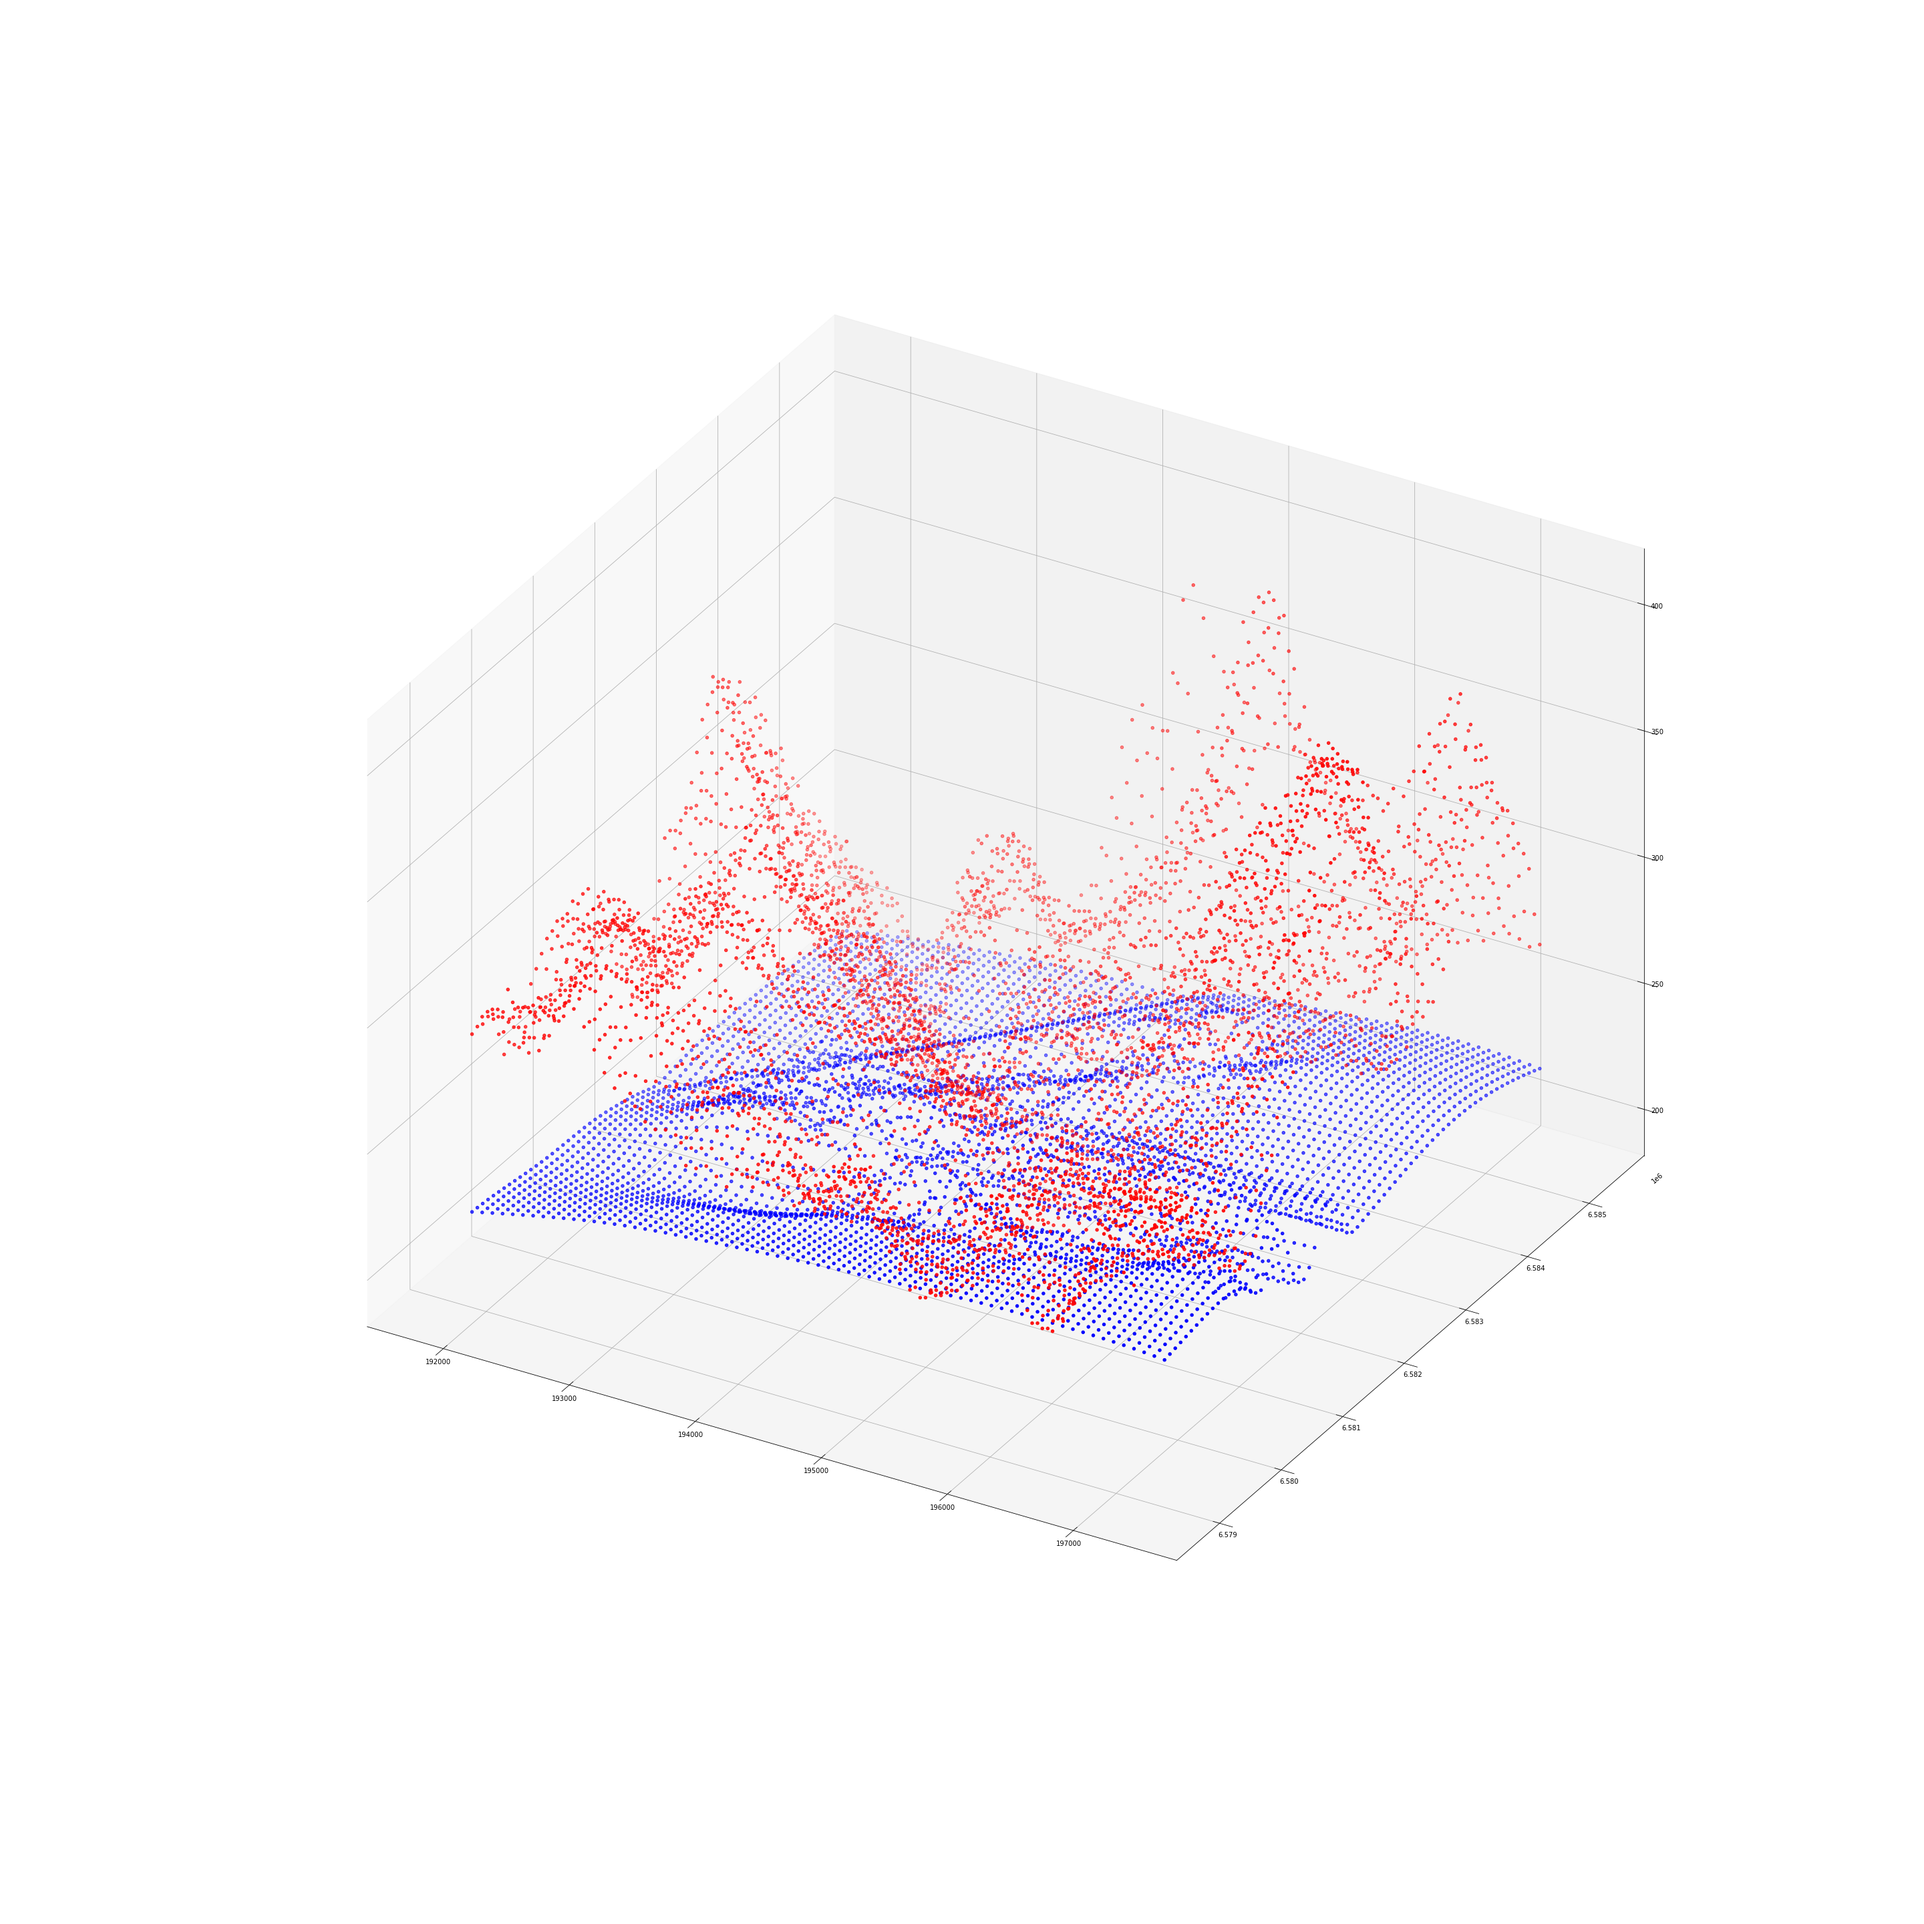
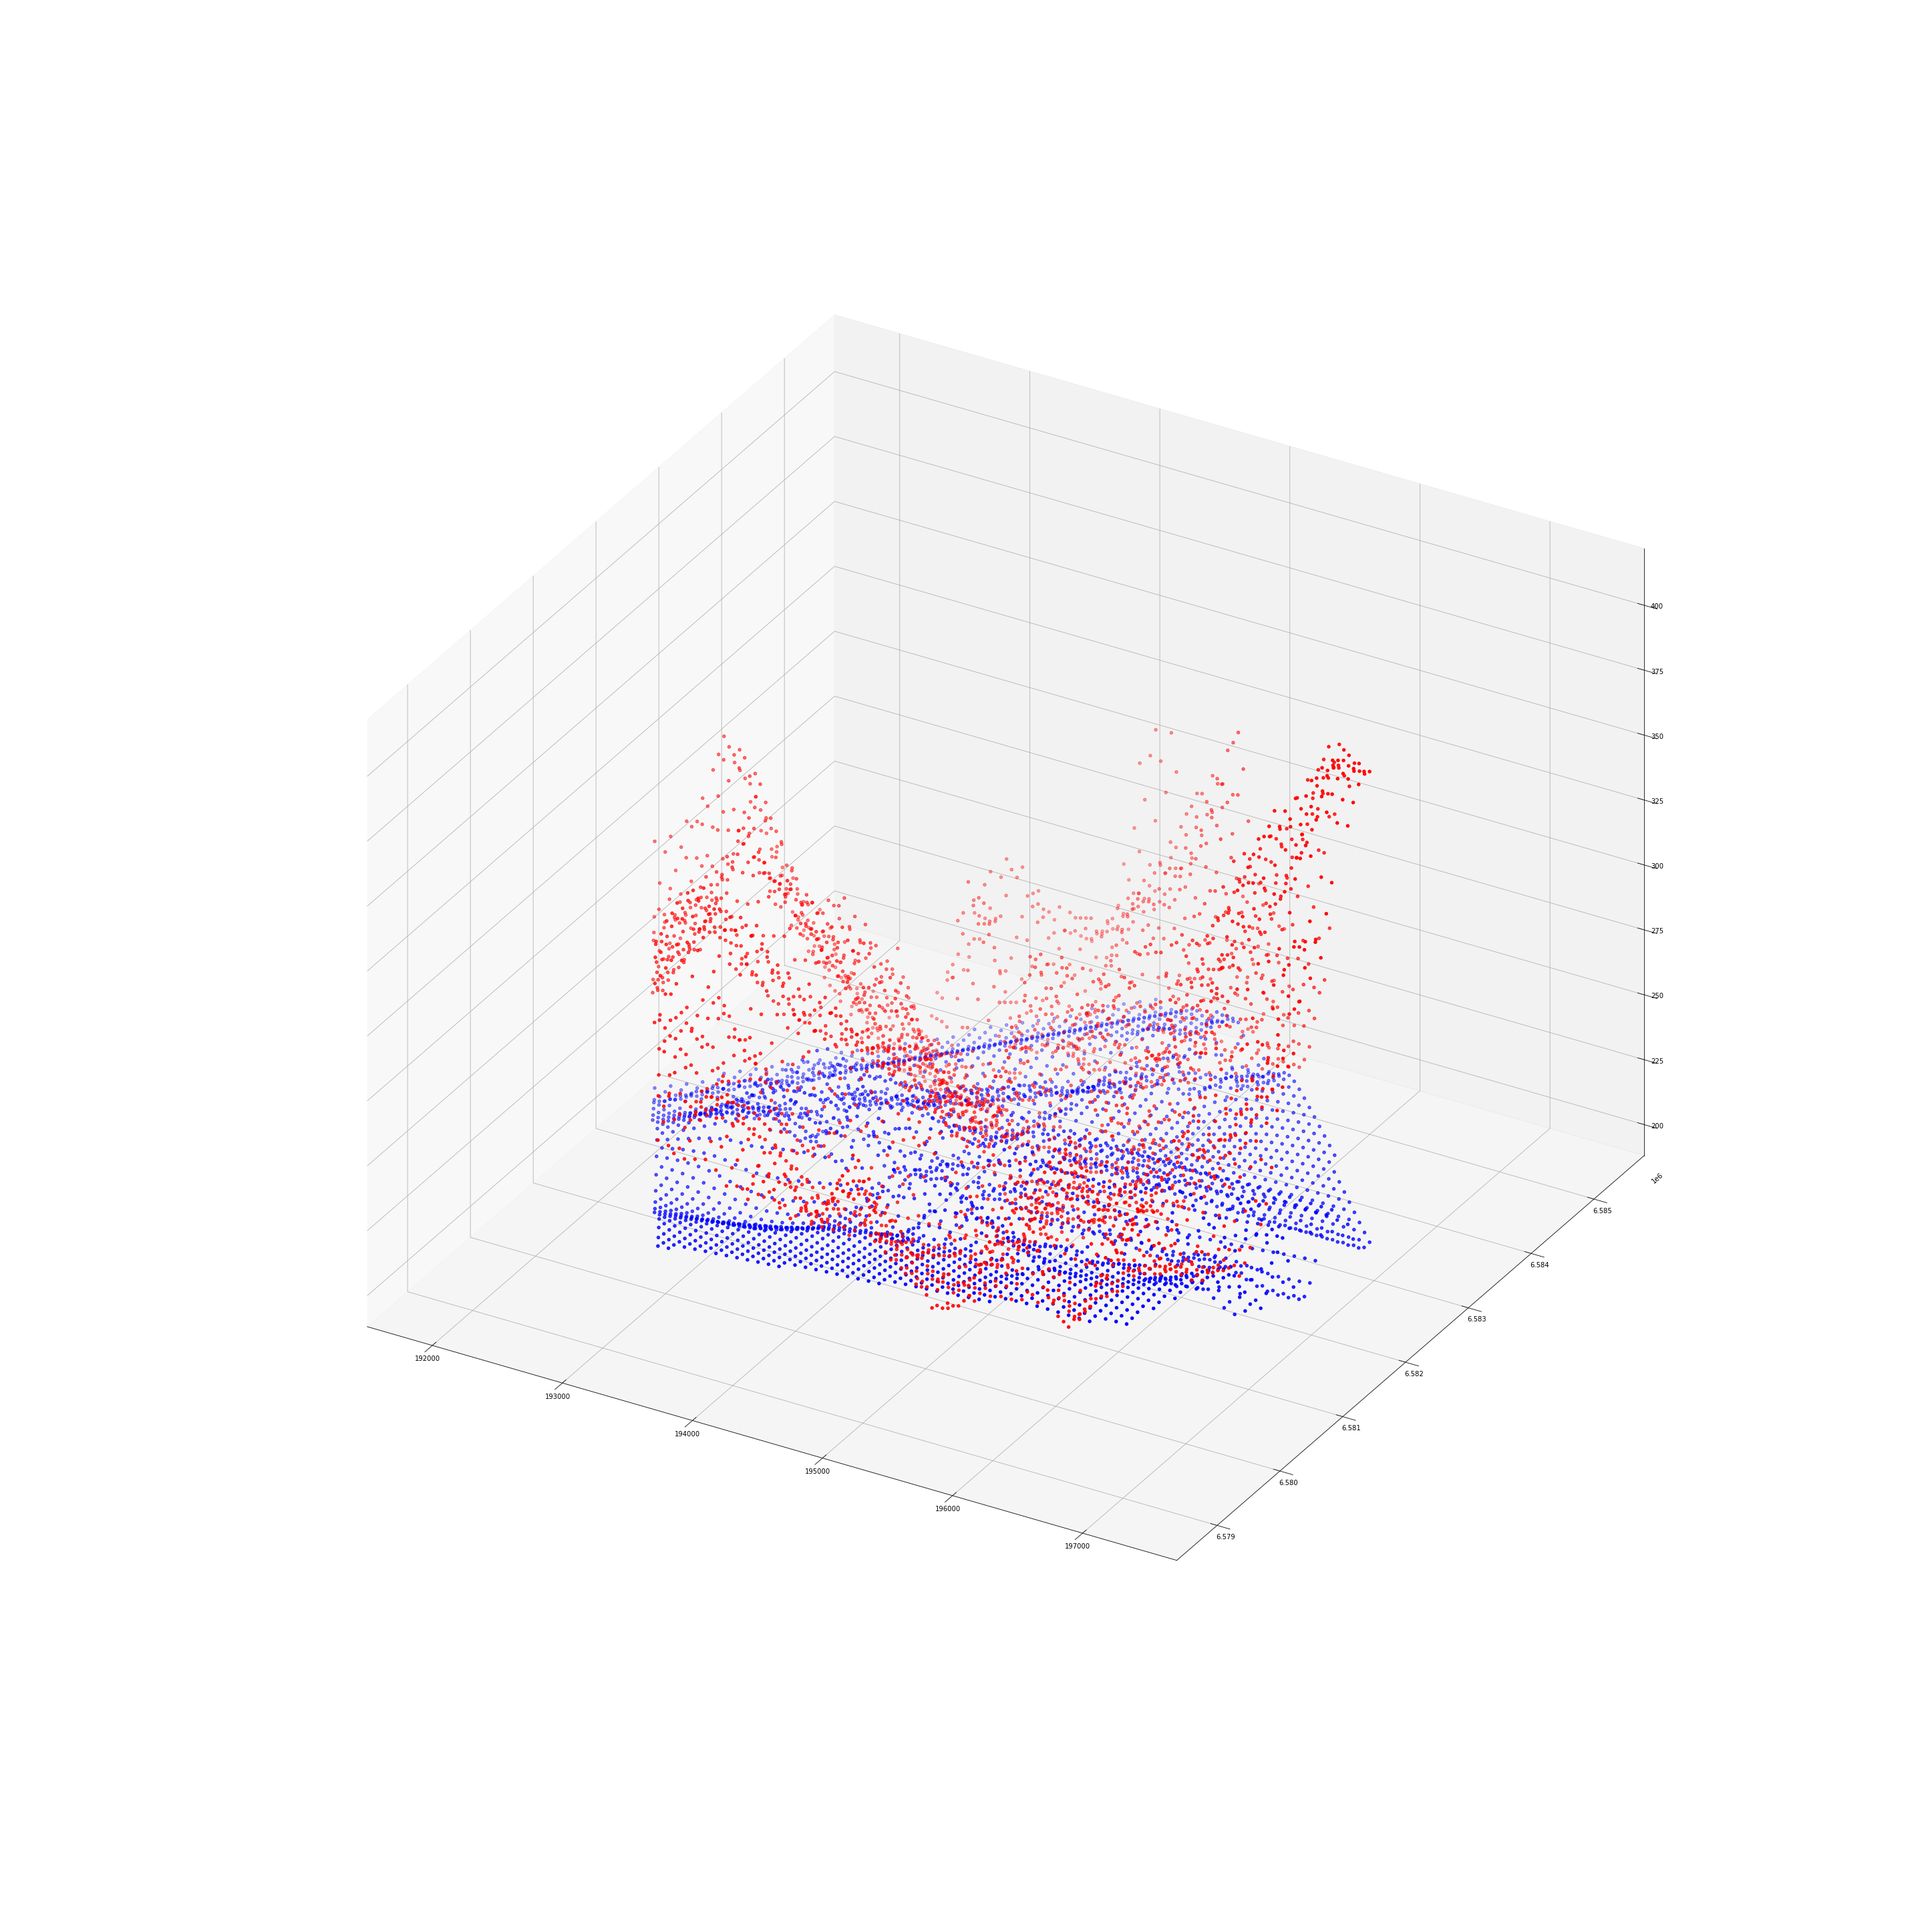
small changes

Changed region(s): [[0.25, 0.3438, 0.7812, 0.7188]]

diff --git a/gui.py b/gui.py
@@ -124,15 +124,14 @@ def calcular():
     global xcoords
     global ycoords
     xcoords, ycoords, z = get_coordinates(clipado)
+    #mascara
+    chull = convex_hull(s)
+    mascara = check_if_is_inside(chull, xcoords, ycoords)
+    xcoords, ycoords, z = xcoords[mascara], ycoords[mascara], z[mascara]
 
     v_int = rbf_interpolation(x_all, y_all, h_all, xcoords, ycoords)
     global mancha
     mancha = np.where(v_int > z, 1, 0)
-    
-    #mascara
-    chull = convex_hull(s)
-    mascara = check_if_is_inside(chull, xcoords, ycoords)
-    xcoords, ycoords, mancha = xcoords[mascara], ycoords[mascara], mancha[mascara]
 
     print('Feche a janela do mapa para continuar.')
     fig, ax = plt.subplots(figsize=(8,8))
